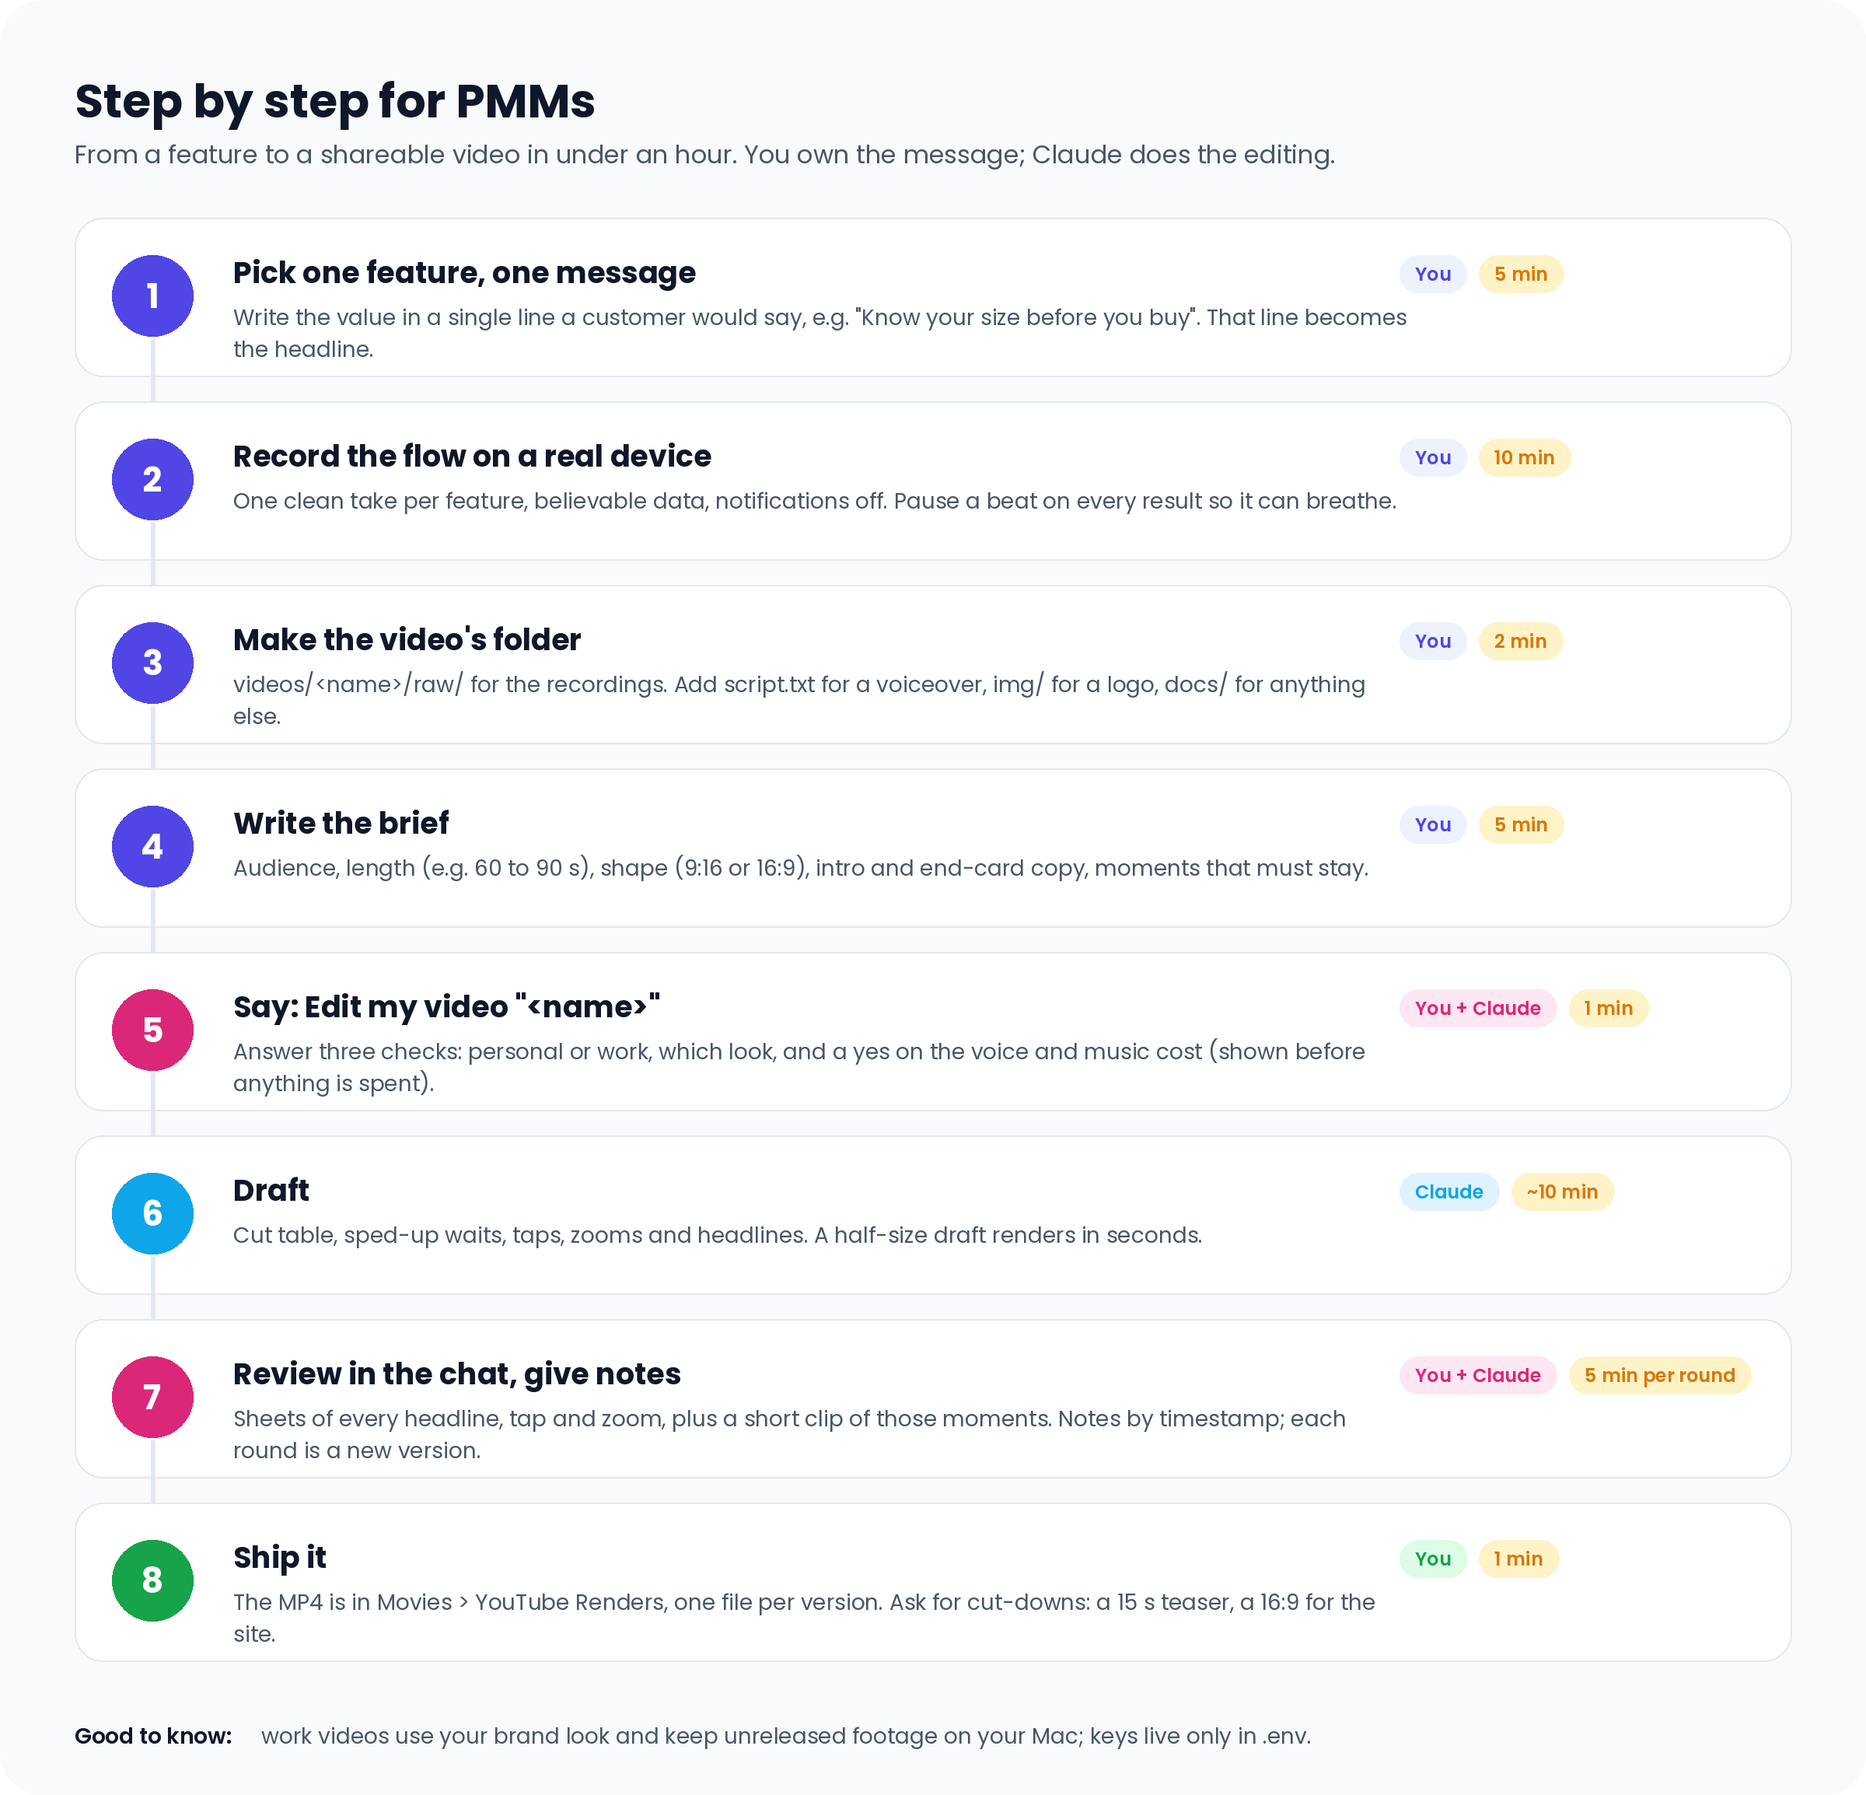
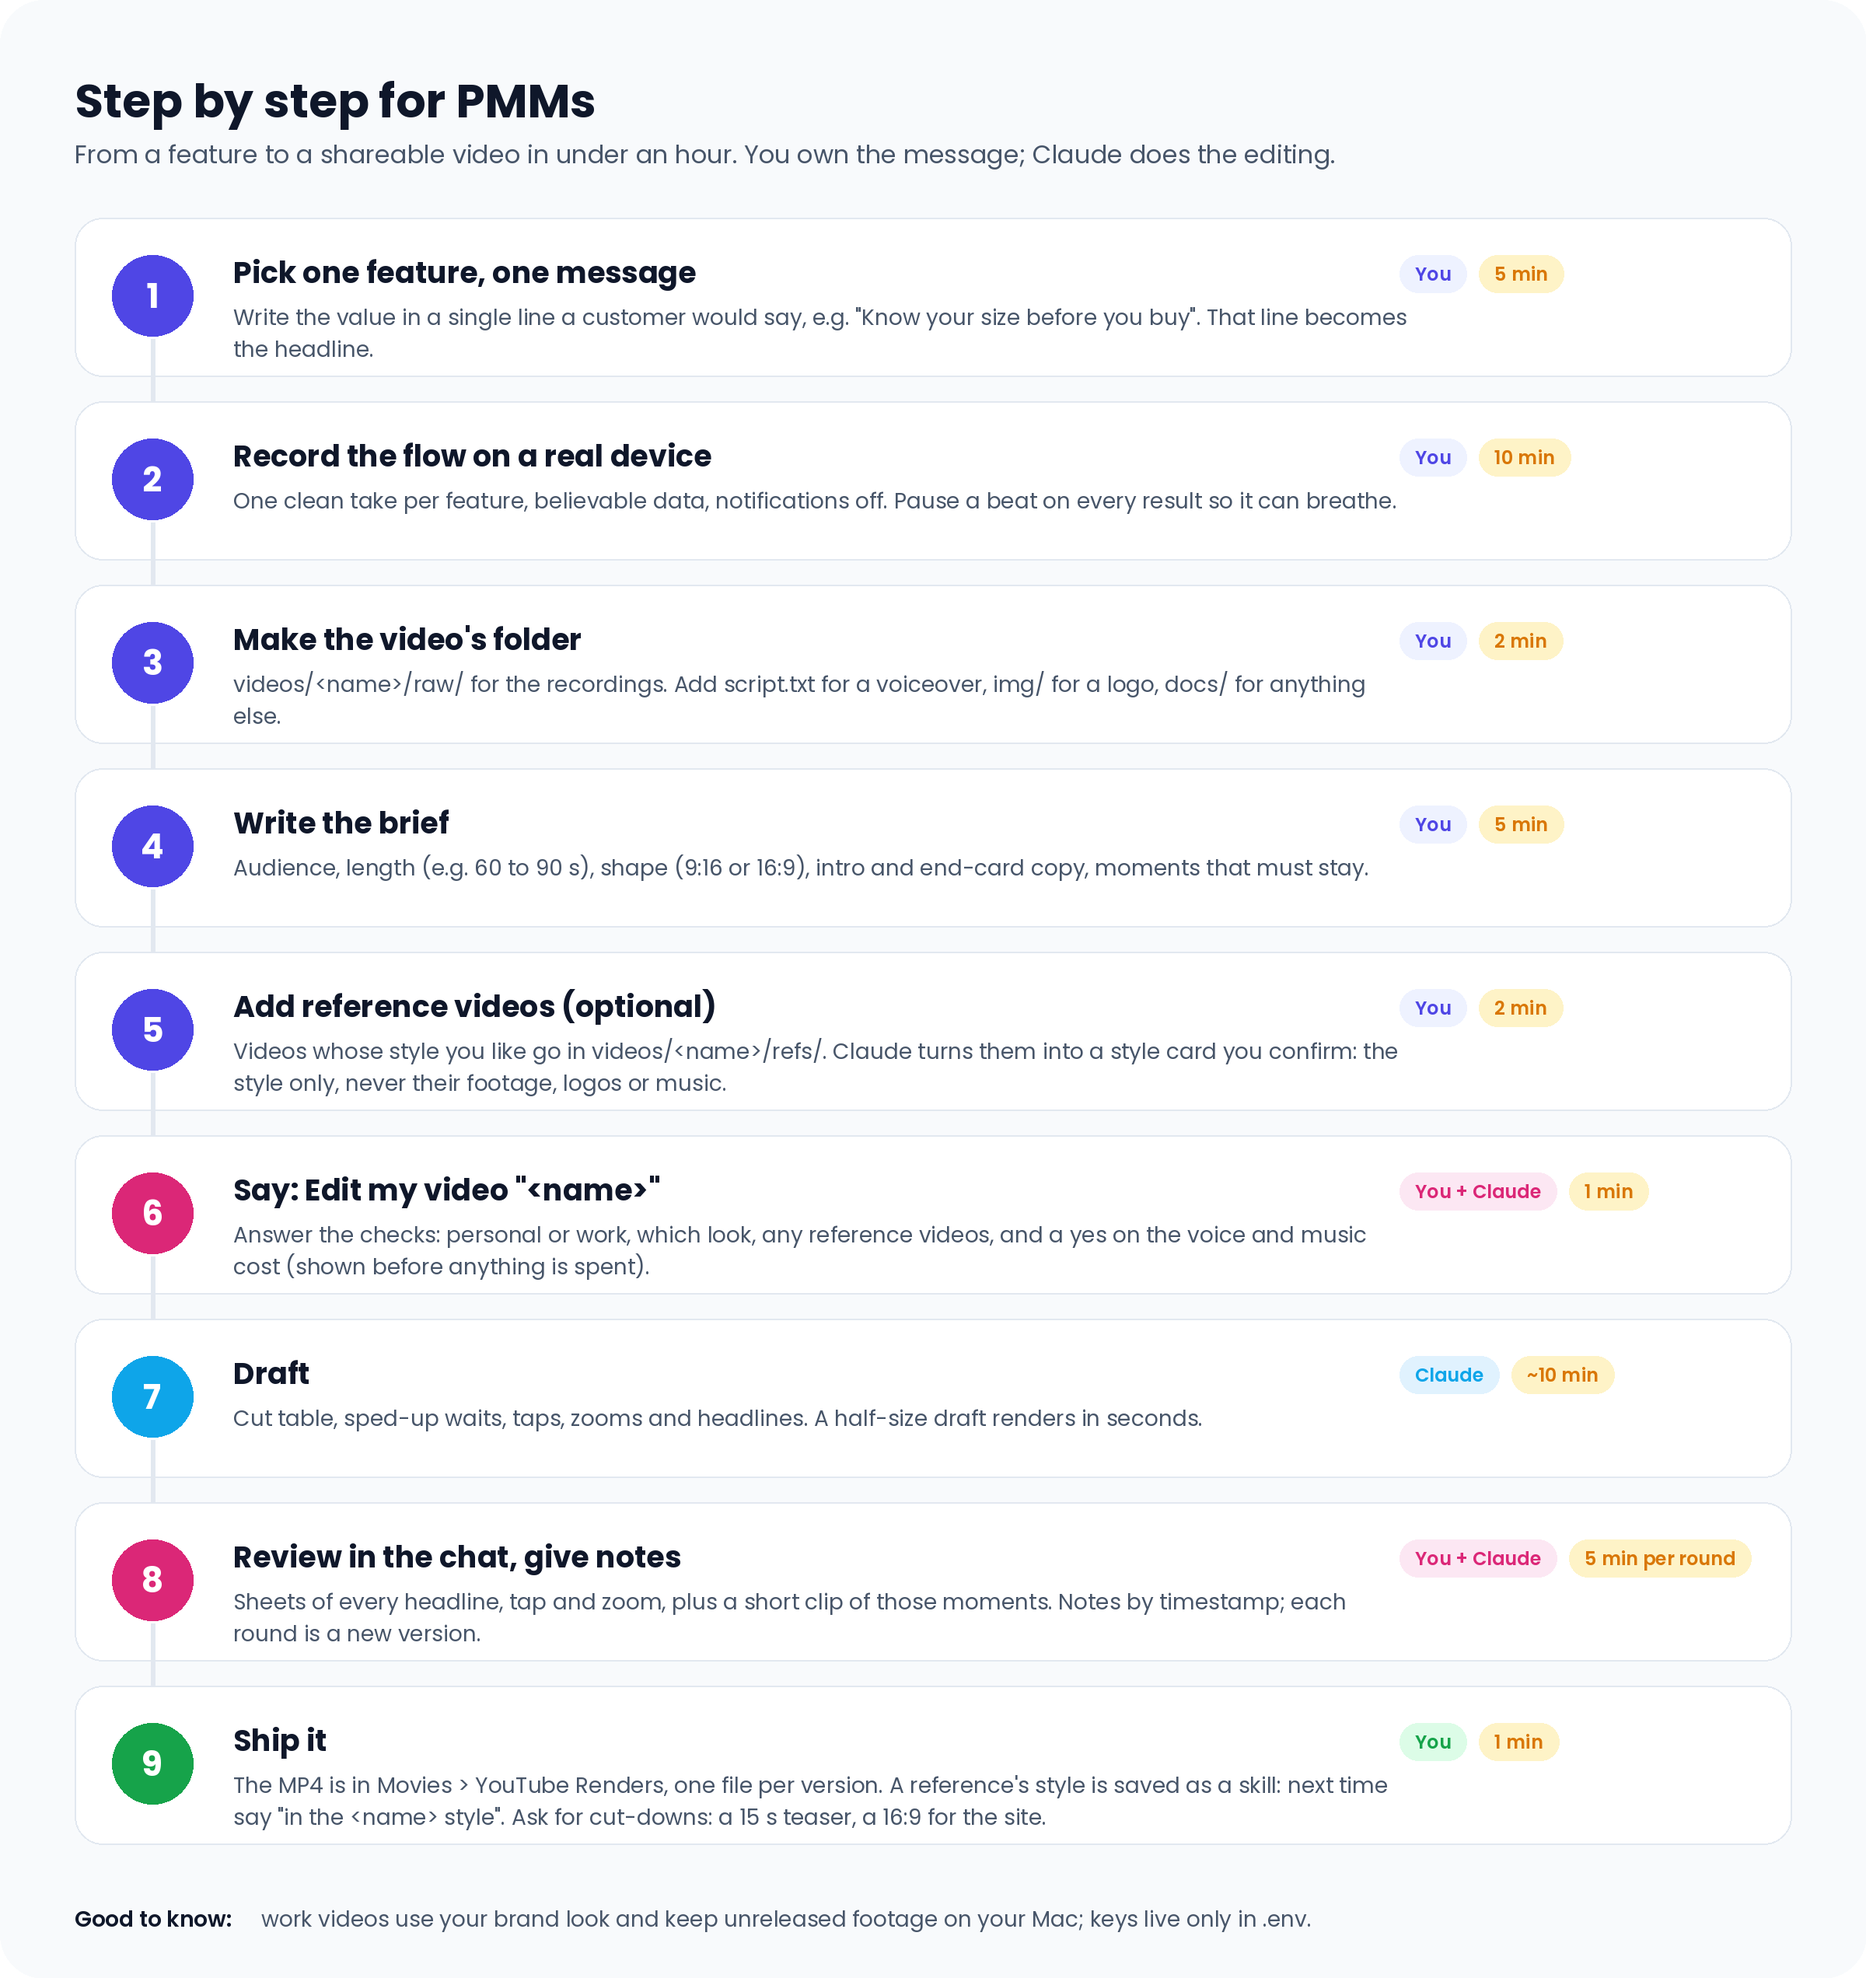
README visuals: add the reference-video step
workflow.png: reference videos in "You bring", a style card in "Claude
plans", the style saved as a skill in "You ship". pmm-steps.png: new
step 5 "Add reference videos (optional)", the reference question in the
checks, and "in the <name> style" next time. Alt text updated.

diff --git a/docs/make-visuals.py b/docs/make-visuals.py
@@ -76,23 +76,26 @@ class Canvas:
 
 
 def workflow():
-    c = Canvas(1200, 640)
+    c = Canvas(1200, 680)
     c.text(48, 44, "How Video maker works", F("Bold", 30), INK)
     c.text(48, 88, "You bring a screen recording and a brief. Claude Code plans, cuts, voices, scores and renders it on your Mac.",
            F("Regular", 16), MUTED)
     stages = [
         (INDIGO, "1  YOU BRING", "Recordings + brief",
-         ["Screen recordings of the feature", "Brief: audience, length, 9:16 or 16:9, intro and end copy", "Optional: script, logo, music notes"]),
-        (SKY, "2  CLAUDE PLANS", "Reads it, asks 3 things",
-         ["Personal or work, which look, OK to spend on voice and music", "Contact sheet + motion scan of each recording", "A cut table you can change"]),
+         ["Screen recordings of the feature", "Brief: audience, length, 9:16 or 16:9, intro and end copy",
+          "Optional: reference videos whose style you like", "Optional: script, logo, music notes"]),
+        (SKY, "2  CLAUDE PLANS", "Reads it, asks first",
+         ["Personal or work, which look, any references, OK to spend on voice and music",
+          "Scans each recording, and each reference for its style", "A style card and a cut table you can change"]),
         (ROSE, "3  CLAUDE BUILDS", "Cut, effects, sound",
          ["Trims, speeds up loading and AI waits", "Taps with clicks, zooms, headlines that open big", "Voiceover, licensed music ducked under it"]),
         (AMBER, "4  YOU REVIEW", "In the chat",
          ["Headline, tap and zoom sheets with timestamps", "A short clip of just those moments", "Notes by time: \"0:17 slower glide\""]),
         (GREEN, "5  YOU SHIP", "Versioned MP4",
-         ["v1, v2, ... never overwritten", "Each version's cut list kept", "Ask for cut-downs: 15 s, 16:9"]),
+         ["v1, v2, ... never overwritten", "Each version's cut list kept", "A reference's style is saved as a skill for next time",
+          "Ask for cut-downs: 15 s, 16:9"]),
     ]
-    x, y, w, h, gap = 48, 140, 204, 330, 22
+    x, y, w, h, gap = 48, 140, 204, 370, 22
     for i, (col, tag, title, items) in enumerate(stages):
         x0 = x + i * (w + gap)
         c.box(x0, y, x0 + w, y + h, 18, fill=CARD, outline=LINE)
@@ -111,7 +114,7 @@ def workflow():
     c.arrow(lx0, ly, lx0, y + h + 4, AMBER, 3)
     c.text((lx0 + lx1) / 2, ly + 16, "notes become a new version in minutes", F("Medium", 13), AMBER, "mm")
     # where things run
-    yb = 548
+    yb = 588
     c.box(48, yb, 1152, yb + 56, 14, fill=CARD, outline=LINE)
     c.text(68, yb + 28, "On your Mac", F("SemiBold", 13), INK, "lm")
     xx = 170
@@ -134,14 +137,19 @@ def steps():
          "videos/<name>/raw/ for the recordings. Add script.txt for a voiceover, img/ for a logo, docs/ for anything else."),
         ("You", INDIGO, "5 min", "Write the brief",
          "Audience, length (e.g. 60 to 90 s), shape (9:16 or 16:9), intro and end-card copy, moments that must stay."),
+        ("You", INDIGO, "2 min", "Add reference videos (optional)",
+         "Videos whose style you like go in videos/<name>/refs/. Claude turns them into a style card you confirm: the style "
+         "only, never their footage, logos or music."),
         ("You + Claude", ROSE, "1 min", "Say: Edit my video \"<name>\"",
-         "Answer three checks: personal or work, which look, and a yes on the voice and music cost (shown before anything is spent)."),
+         "Answer the checks: personal or work, which look, any reference videos, and a yes on the voice and music cost (shown "
+         "before anything is spent)."),
         ("Claude", SKY, "~10 min", "Draft",
          "Cut table, sped-up waits, taps, zooms and headlines. A half-size draft renders in seconds."),
         ("You + Claude", ROSE, "5 min per round", "Review in the chat, give notes",
          "Sheets of every headline, tap and zoom, plus a short clip of those moments. Notes by timestamp; each round is a new version."),
         ("You", GREEN, "1 min", "Ship it",
-         "The MP4 is in Movies > YouTube Renders, one file per version. Ask for cut-downs: a 15 s teaser, a 16:9 for the site."),
+         "The MP4 is in Movies > YouTube Renders, one file per version. A reference's style is saved as a skill: next time say "
+         "\"in the <name> style\". Ask for cut-downs: a 15 s teaser, a 16:9 for the site."),
     ]
     W, top, rh = 1200, 140, 118
     c = Canvas(W, top + len(rows) * rh + 70)

diff --git a/README.md b/README.md
@@ -38,11 +38,11 @@ recordings, do the full [set up](#set-up).
 
 ## The workflow
 
-![How Video maker works: you bring recordings and a brief, Claude plans and asks three things, Claude builds the cut, effects and sound, you review in the chat, and you ship a versioned MP4. Notes loop back to the build.](docs/images/workflow.png)
+![How Video maker works: you bring recordings, a brief and optionally reference videos whose style you like; Claude plans, asks first and turns any reference into a style card; Claude builds the cut, effects and sound; you review in the chat; and you ship a versioned MP4, with the reference's style saved as a skill. Notes loop back to the build.](docs/images/workflow.png)
 
 ## Step by step for PMMs
 
-![Eight steps: pick one feature and one message, record the flow, make the video's folder, write the brief, say Edit my video, Claude drafts, review in the chat and give notes, ship it.](docs/images/pmm-steps.png)
+![Nine steps: pick one feature and one message, record the flow, make the video's folder, write the brief, add reference videos whose style you like (optional), say Edit my video, Claude drafts, review in the chat and give notes, ship it.](docs/images/pmm-steps.png)
 
 ## What you get back
 
